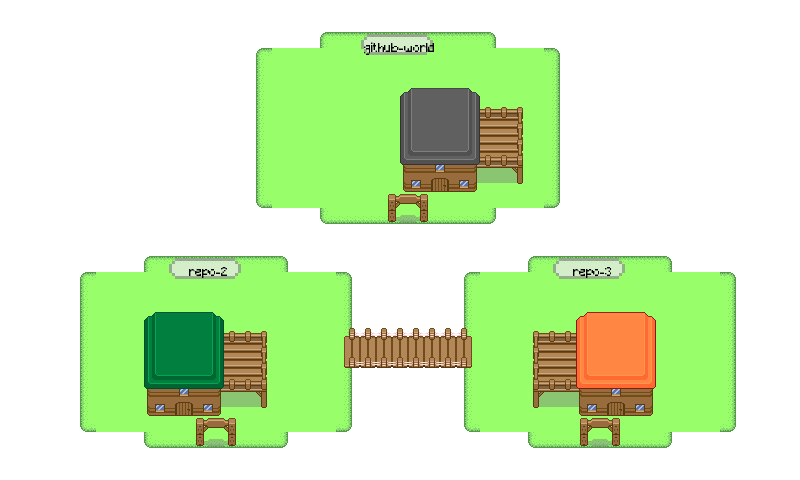
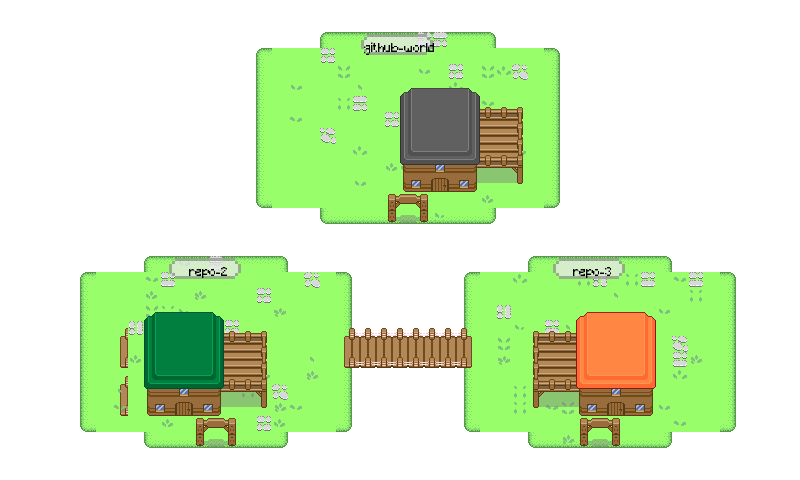
feat: colocando função de decoração com pedras e folhas

diff --git a/generate.py b/generate.py
@@ -1,6 +1,6 @@
 from PIL import Image, ImageDraw, ImageFont
 from pathlib import Path
-
+import random
 from assets_config_V2 import assets
 
 
@@ -236,11 +236,13 @@ def create_repo_tag(
 def create_organic_island(
     layer,
     object_layer,
+    detail_layer,
     center_x,
     center_y,
     width,
     height,
-    entrance=True
+    entrance=True,
+    decorate=True
 ):
     """
     Cria uma ilha no formato:
@@ -441,47 +443,138 @@ def create_organic_island(
         ):
             object_layer[entrance_y][entrance_x] = "x3"
 
+    # ========================================================
+    # DECORAÇÃO DA ILHA
+    # ========================================================
 
-# ============================================================
-# ISLAND 2
-# ============================================================
+    if decorate:
+
+        # quantidade baseada no tamanho da ilha
+        island_area = width * height
+
+        num_rocks = max(10, island_area // 35)
+        num_leaves = max(25, island_area // 25)
+
+        # ----------------------------------------------------
+        # posições válidas
+        # ----------------------------------------------------
+
+        valid_positions = []
+
+        for row_index, (left, right) in enumerate(rows):
+
+            y = start_y + row_index
+
+            if not 0 <= y < MAP_ROWS:
+                continue
+
+            # evita colocar decoração exatamente na borda
+            safe_left = left + 2
+            safe_right = right - 2
+
+            for x in range(safe_left, safe_right + 1):
+
+                if not 0 <= x < MAP_COLS:
+                    continue
+
+                valid_positions.append(
+                    (x, y)
+                )
+
+        # ----------------------------------------------------
+        # evita entrada
+        # ----------------------------------------------------
+
+        entrance_positions = set()
+
+        if entrance:
+
+            entrance_positions.update({
+                (entrance_x, entrance_y),
+                (entrance_x + 1, entrance_y),
+                (entrance_x + 2, entrance_y),
+
+                (entrance_x, entrance_y + 1),
+                (entrance_x + 1, entrance_y + 1),
+                (entrance_x + 2, entrance_y + 1),
+            })
+
+        valid_positions = [
+            position
+            for position in valid_positions
+            if position not in entrance_positions
+        ]
+
+        # ----------------------------------------------------
+        # PEDRAS
+        # ----------------------------------------------------
+
+        for _ in range(num_rocks):
+
+            if not valid_positions:
+                break
+
+            x, y = random.choice(valid_positions)
+
+            # você possui p1 até p10
+            rock = f"p{random.randint(1, 10)}"
+
+            detail_layer[y][x] = rock
+
+            valid_positions.remove((x, y))
+
+        # ----------------------------------------------------
+        # FOLHAS
+        # ----------------------------------------------------
+
+        for _ in range(num_leaves):
+
+            if not valid_positions:
+                break
+
+            x, y = random.choice(valid_positions)
+
+            # range(0, 1) = 2 linhas
+            # range(5, 9) = 5 colunas
+            # portanto 40 folhas
+            leaf = f"f{random.randint(1, 10)}"
+
+            detail_layer[y][x] = leaf
+
+            valid_positions.remove((x, y))
+
+
 
 create_organic_island(
     GROUND_MAP,
     OBJECT_MAP,
+    DETAIL_MAP,
     center_x=25,
     center_y=8,
     width=19,
     height=12
 )
 
-
-# ============================================================
-# ISLAND 3
-# ============================================================
-
 create_organic_island(
     GROUND_MAP,
     OBJECT_MAP,
+    DETAIL_MAP,
     center_x=13,
     center_y=22,
     width=17,
     height=12
 )
 
-
-# ============================================================
-# ISLAND 4
-# ============================================================
-
 create_organic_island(
     GROUND_MAP,
     OBJECT_MAP,
+    DETAIL_MAP,
     center_x=37,
     center_y=22,
     width=17,
     height=12
 )
+
 
 
 # ============================================================
@@ -674,8 +767,8 @@ sprites = [
 # PLAYER POSITION
 # ============================================================
 
-player_col = 12
-player_row = 10
+player_col = 20
+player_row = 8
 
 player_x = player_col * TILE_SIZE
 player_y = player_row * TILE_SIZE

diff --git a/assets_config_V2.py b/assets_config_V2.py
@@ -110,8 +110,8 @@ for row in range(0, 9):
 
 n = 1
 
-for row in range(0, 12):
-    for col in range(4, 15):
+for row in range(0, 2):
+    for col in range(10, 16):
         assets.add(Tile(
             f"p{n}",
             Ilhas,
@@ -143,8 +143,8 @@ for row in range(5, 13):
 
 n = 1
 
-for row in range(5, 0):
-    for col in range(9, 1):
+for row in range(0, 2):
+    for col in range(5, 10):
         assets.add(Tile(
             f"f{n}",
             Ilhas,
